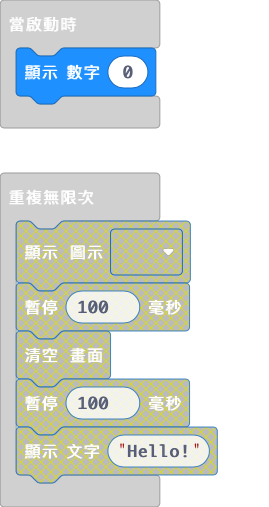
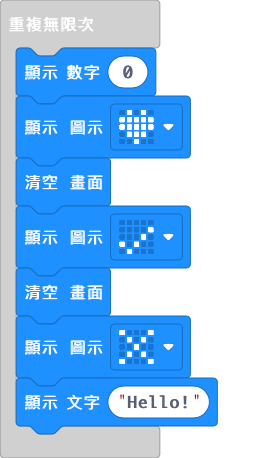
Update main.blocks, main.ts

diff --git a/main.ts b/main.ts
@@ -1,4 +1,10 @@
 basic.showNumber(0)
 basic.forever(function () {
-	
+    basic.showNumber(0)
+    basic.showIcon(IconNames.Heart)
+    basic.clearScreen()
+    basic.showIcon(IconNames.Yes)
+    basic.clearScreen()
+    basic.showIcon(IconNames.No)
+    basic.showString("Hello!")
 })
